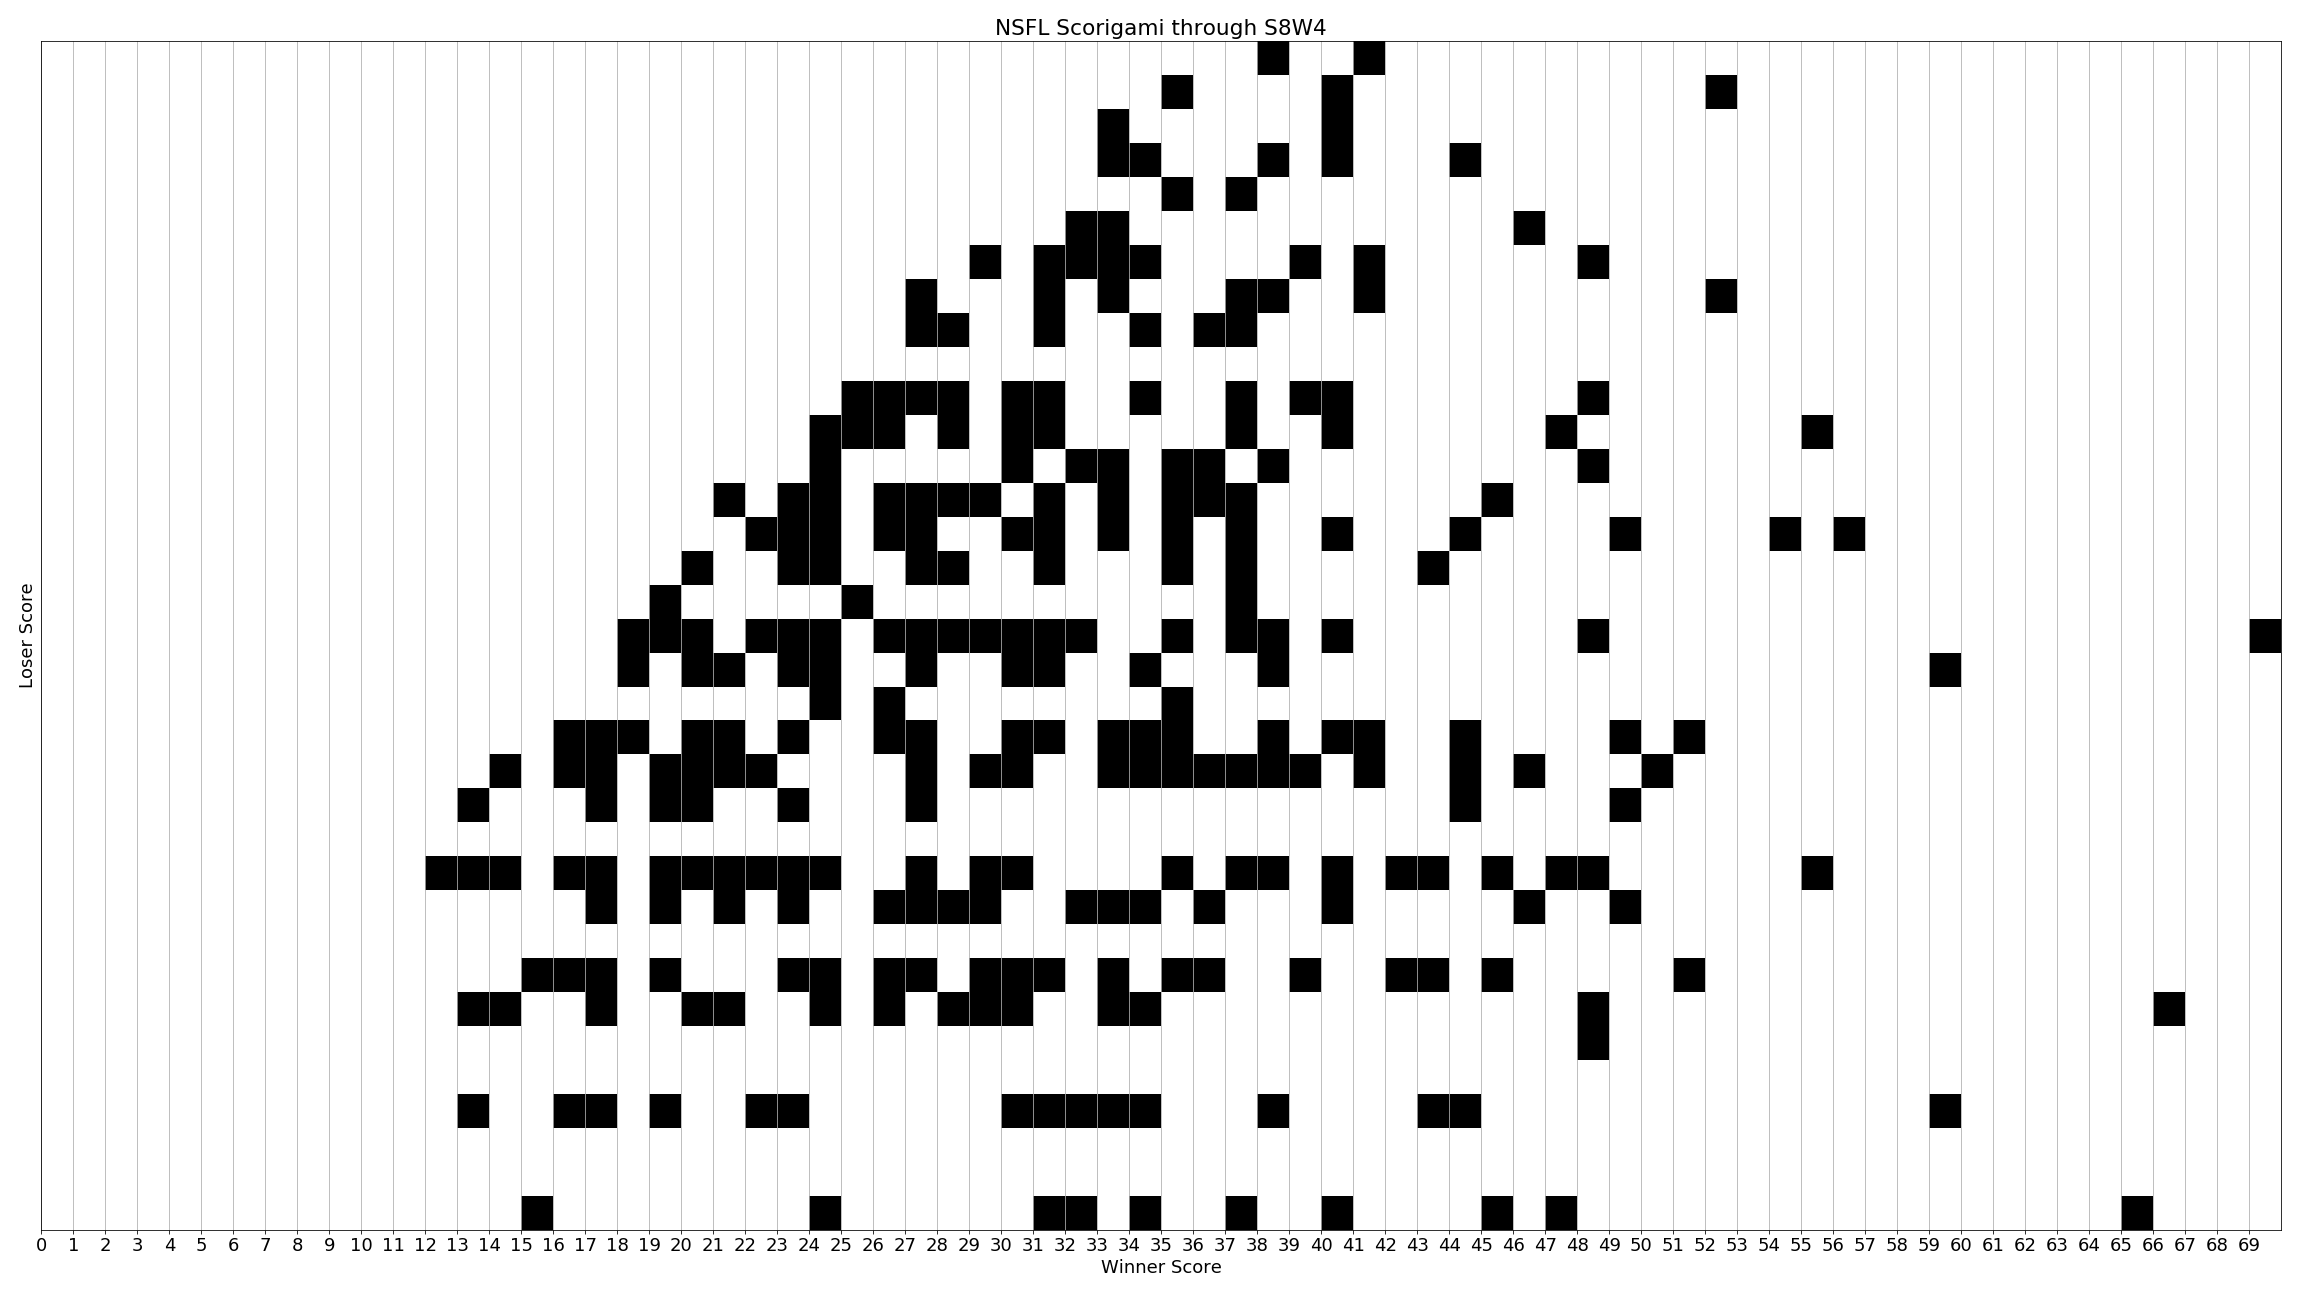
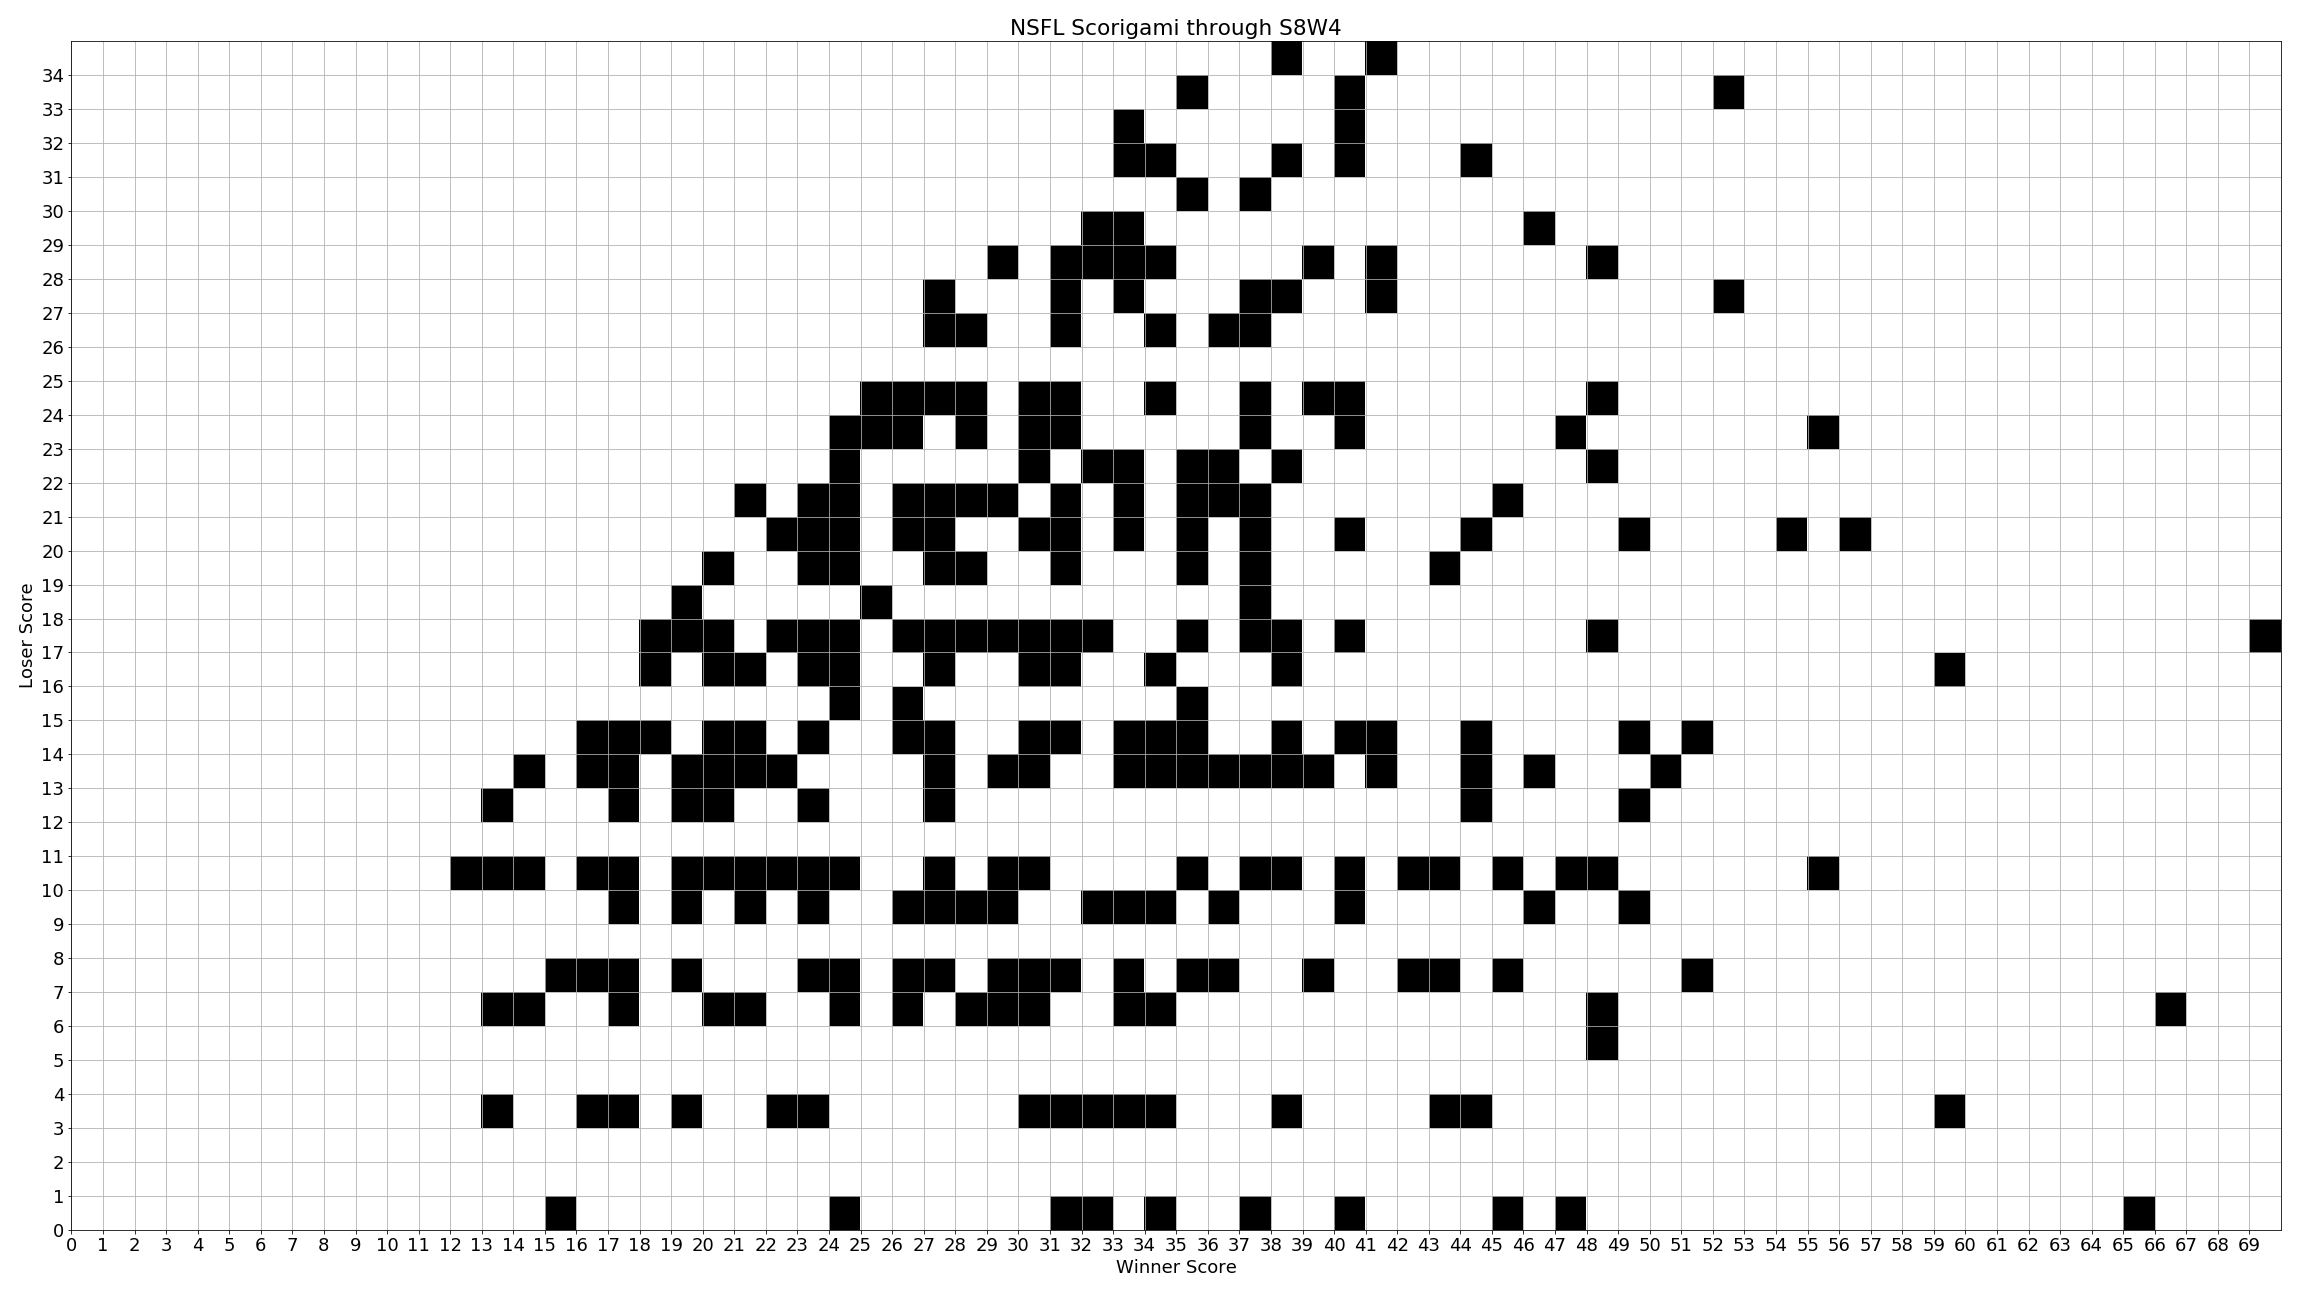
axis switch 2

Changed region(s): [[0.0, 0.0, 0.9688, 0.9877], [0.6562, 0.463, 0.7188, 0.5247], [0.625, 0.0926, 0.6562, 0.1543]]

diff --git a/grapher.py b/grapher.py
@@ -50,7 +50,7 @@ plt.rc('font', size=18)
 plt.title('NSFL Scorigami through S8W4')
 plt.xlabel('Winner Score')
 plt.ylabel('Loser Score')
-plt.yticks(range(0,35,-1))
+plt.yticks(range(0,35,1))
 plt.xticks(range(0,70,1))
 plt.grid()
 plt.hist2d(winner_nodup,loser_nodup,bins=(70,35),cmap='binary',range=[[0,70],[0,35]])
